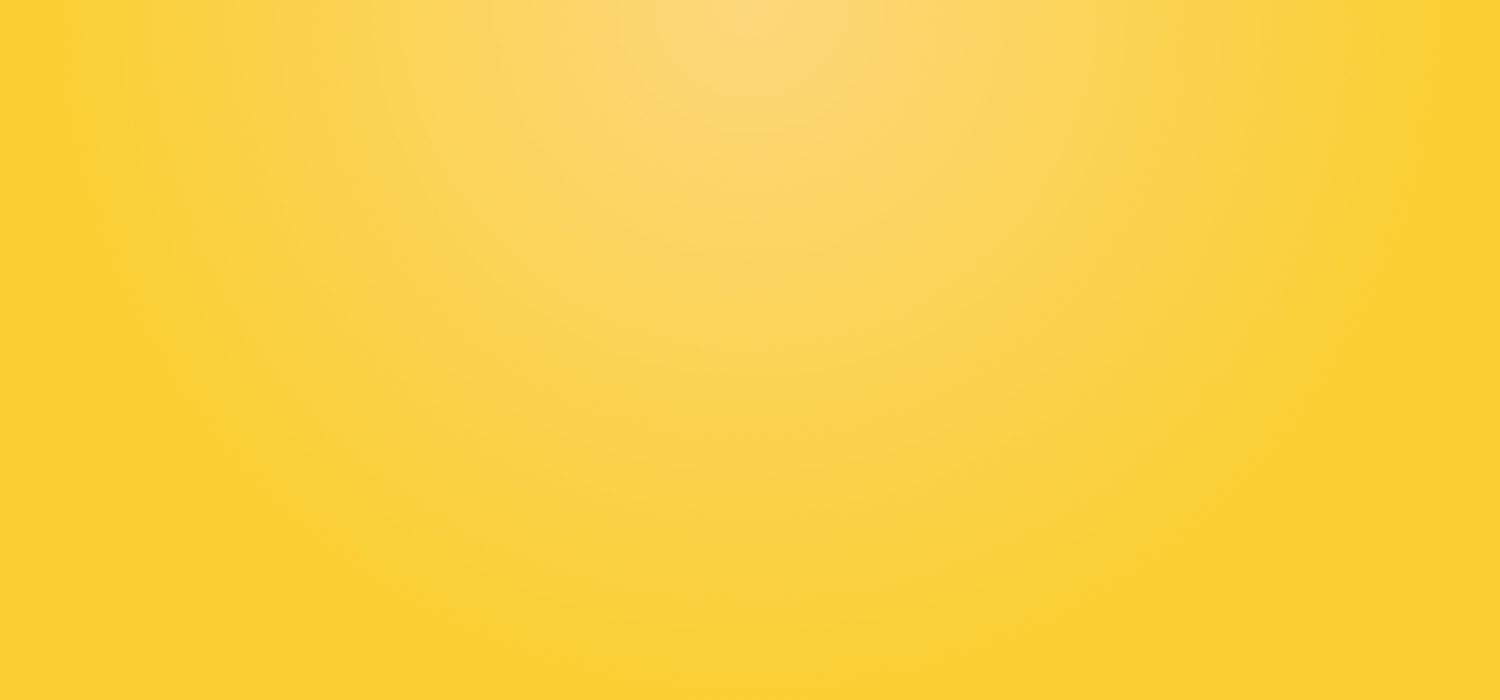
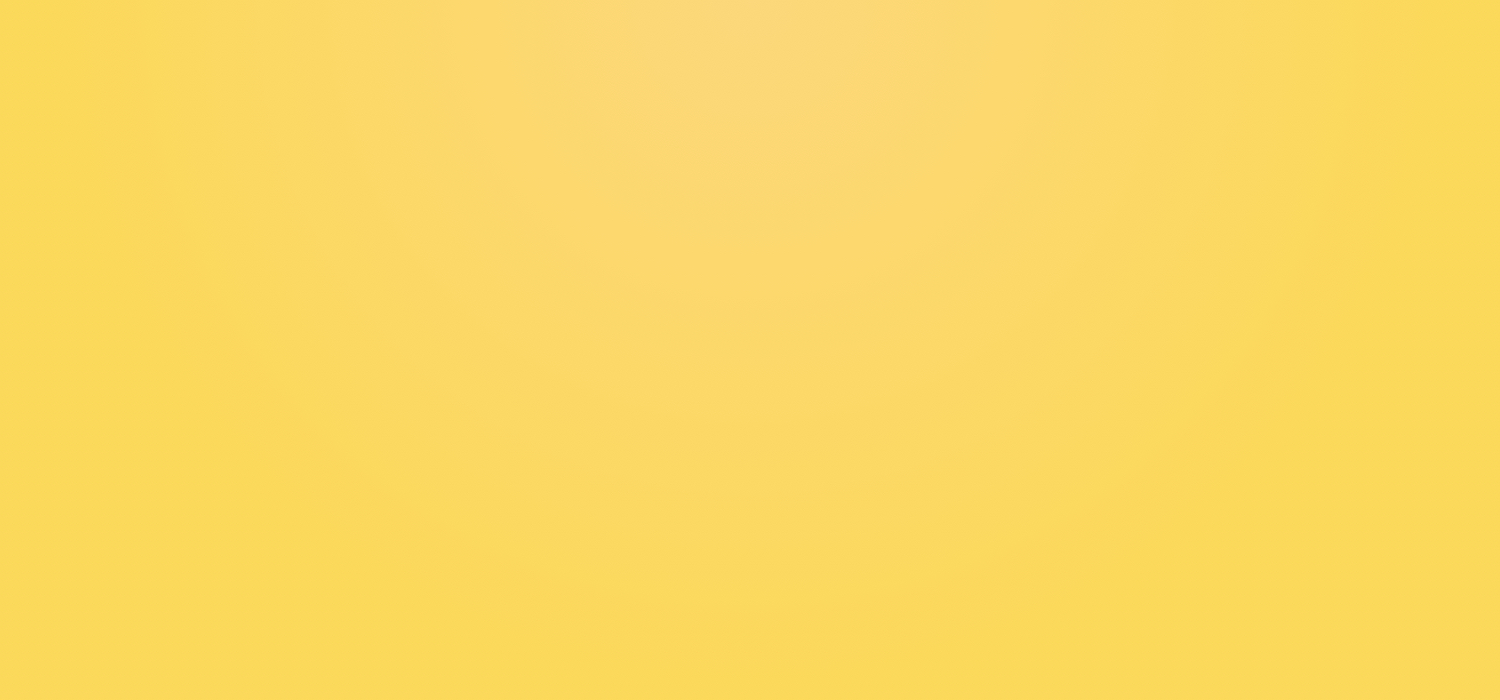
update user case bg color

diff --git a/product.html b/product.html
@@ -216,21 +216,33 @@
             </div>
 
             <div class="row">
-                <div class="col-md-3">
-                  <img src="img/mom.png"/>
-                    <h5>Mom</h5>
+                <div class="col-md-3" id="case1">
+                    <div id="icon icon-image">
+                      <img src="img/mom.png"/>
+                      <h5>Mom</h5>
+                    </div>
+                    <p>Hassle-free way to send all my baby pictures and videos to my mom without degrading the quality.</p>
                   </div>
-                <div class="col-md-3">
-                  <img src="img/lawyer.png"/>
-                    <h5>Lawyer</h5>
+                <div class="col-md-3" id="case2">
+                    <div id="icon icon-image">
+                      <img src="img/lawyer.png"/>
+                      <h5>Lawyer</h5>
+                    </div>
+                    <p>Confidential & secure way to send highly sensitive documents between my clients/colleagues.</p>
                   </div>
-                <div class="col-md-3">
-                  <img src="img/student.png"/>
-                    <h5>Student</h5>
+                <div class="col-md-3" id="case3">
+                    <div id="icon icon-image">
+                      <img src="img/student.png"/>
+                      <h5>Student</h5>
+                    </div>
+                    <p>Sending class notes to my friends has never been easier.</p>
                   </div>
-                <div class="col-md-3">
-                  <img src="img/news.png"/>
-                    <h5>Journalist</h5>
+                <div class="col-md-3" id="case4">
+                    <div id="icon icon-image">
+                      <img src="img/news.png"/>
+                      <h5>Journalist</h5>
+                    </div>
+                    <p>Now I can easily transfer my audio files from my phone to PC OR Easy way to share my reports with my boss without the fear of someone stealing my work.</p>
                   </div>
             </div>
         </div>

diff --git a/css/theme/theme.css b/css/theme/theme.css
@@ -221,3 +221,17 @@ padding-bottom: 50px;}
 }
 
 #usercase h5{font-size: 18px;}
+#usercase p{
+	color:#333;opacity: 0;
+	-webkit-transition: opacity 0.8s;
+	transition: opacity 0.8s;
+}
+#case1:hover p{opacity: 1;}
+#case2:hover p{opacity: 1;}
+#case3:hover p{opacity: 1;}
+#case4:hover p{opacity: 1;}
+
+
+
+
+

diff --git a/css/module/card.css b/css/module/card.css
@@ -1,3 +1,5 @@
+
+
 /* Common style */
 .cardclip {
 	margin: -20px auto 20px;
